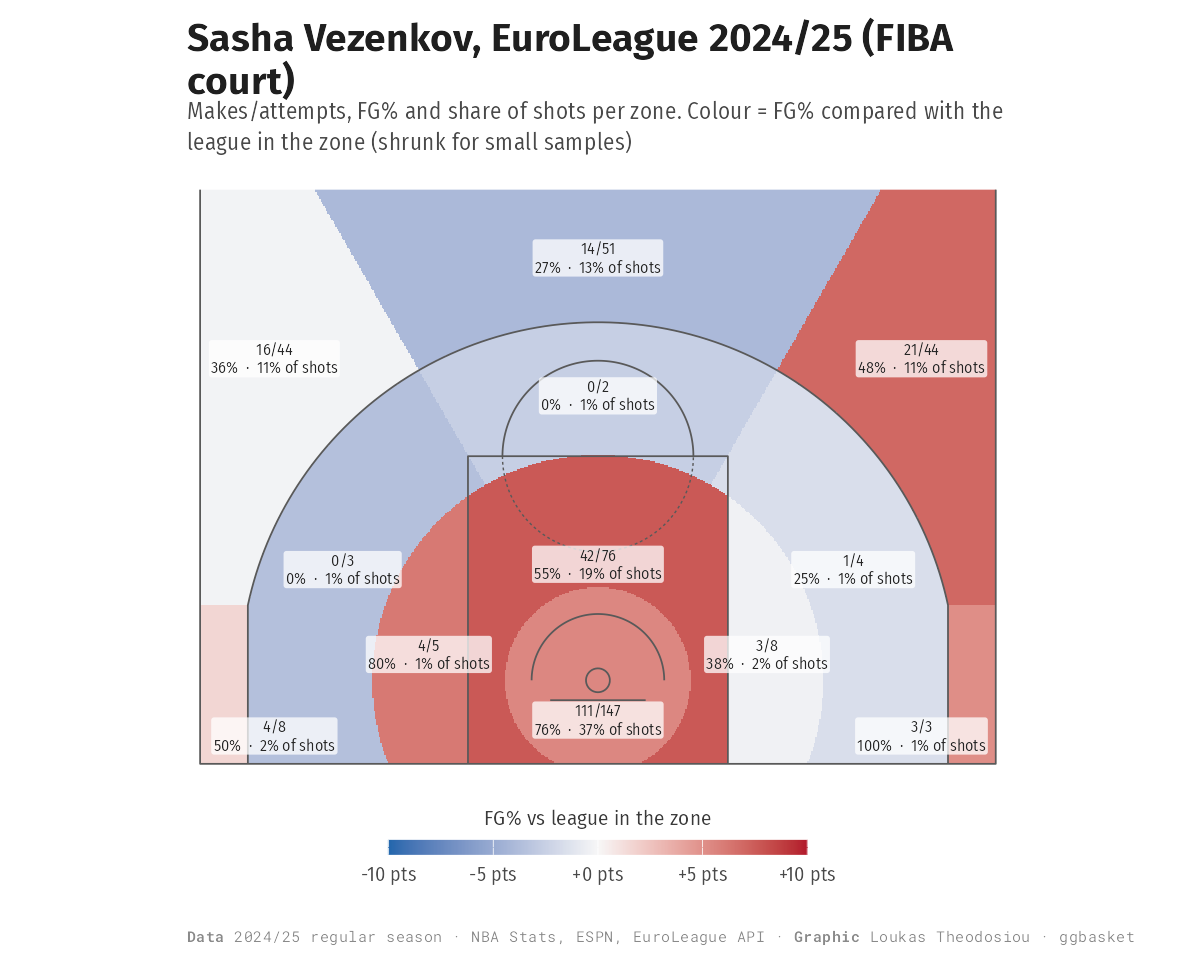
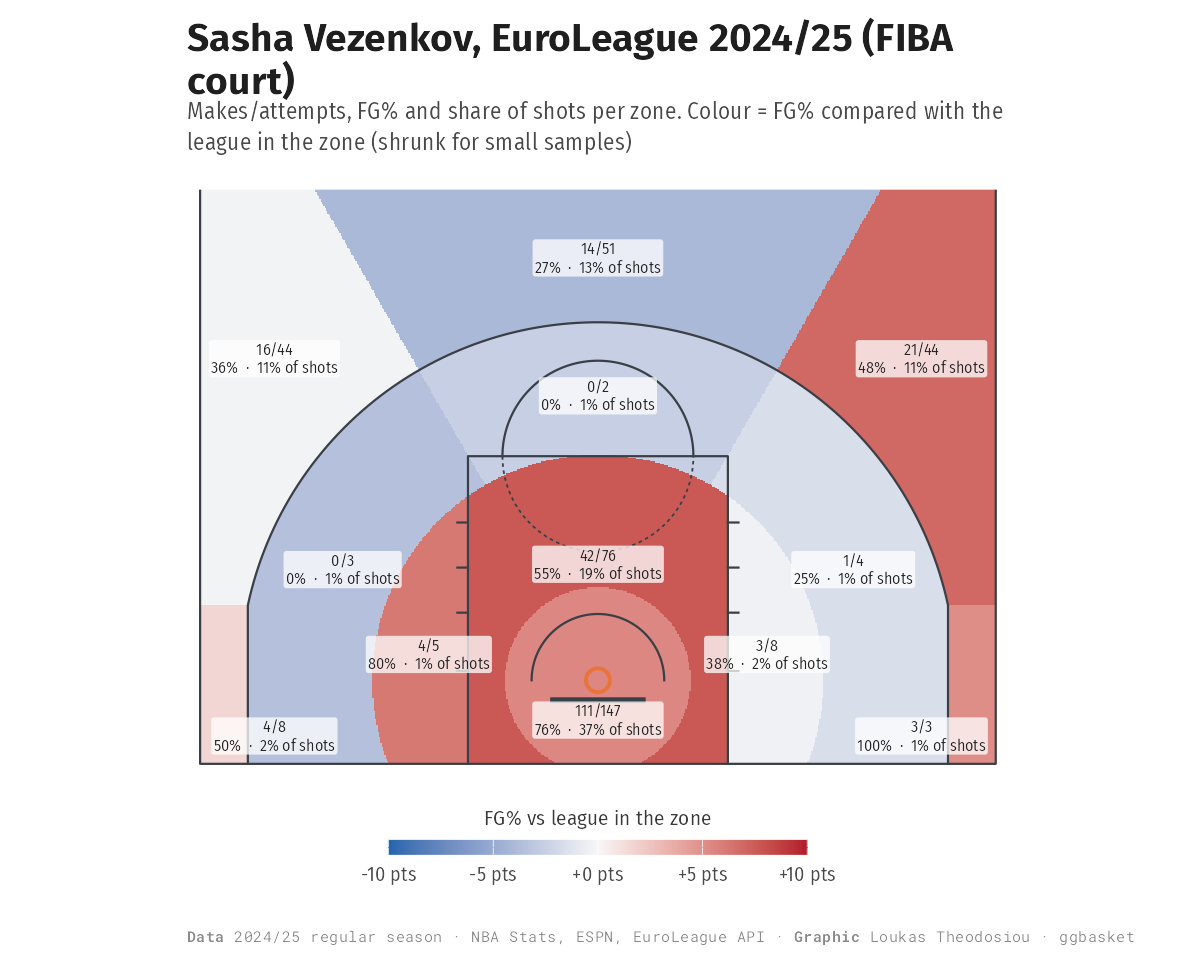
Painted court on white, four new court heatmaps, README shows every figure
- geom_court(style = painted/arena/minimal): cool-grey floor, painted key, lane marks,
  backboard and orange rim; painted is the default (no beige anywhere)
- New figures: EuroLeague hexagons, EuroLeague vs NBA shot map, Olympiacos vs
  Panathinaikos, every shot of the 2025 EuroLeague final
- README gallery now shows all 37 figures with one line each
- plot_spread(min_attempts =)

diff --git a/README.md b/README.md
@@ -29,10 +29,6 @@ on_off(el, team = "PAN")
 | Was it a classic? | `game_summary()`: lead changes, biggest leads, best run, excitement, comeback |
 | Who played well? | `box_score()`, `game_score()` |
 
-![](gallery/figures/01_game_flow.png)
-![](gallery/figures/03_win_probability.png)
-![](gallery/figures/04_game_factors.png)
-![](gallery/figures/02_game_flow_el.png)
 
 ## What you can learn from many games
 
@@ -45,11 +41,6 @@ on_off(el, team = "PAN")
 | Does pressure (shot clock, score, streaks, end of period) change shooting? | `pressure_situations()`, `pressure_effects()`, `plot_pressure()` |
 | How does a shot's value change with distance or shot clock? | `shot_curve()`, `plot_shot_curve()` |
 
-![](gallery/figures/05_on_off.png)
-![](gallery/figures/06_consistency.png)
-![](gallery/figures/10_pressure.png)
-![](gallery/figures/12_shot_clock.png)
-![](gallery/figures/09_assist_roles.png)
 
 ## Teams, players and shots
 
@@ -61,8 +52,75 @@ on_off(el, team = "PAN")
 | Patterns | `association()`, `cluster_quality()` | `plot_association()`, `plot_corr_matrix()`, `plot_similarity_map()`, `plot_cluster_quality()`, `plot_cluster_profiles()` |
 | Courts and style | `court_spec()`, `court_lines()`, `ggbasket_fonts()` | `geom_court()` (NBA and FIBA), `theme_ggbasket()`, `theme_court()`, `colour_text()`, `ggbasket_caption()` |
 
-The full gallery, 33 figures all drawn from 2024/25 data, is in [`gallery/figures/`](gallery/figures)
-(`Rscript gallery/make_gallery.R` redraws it).
+## Gallery
+
+Every figure below comes from real 2024/25 NBA and EuroLeague data; `Rscript gallery/make_gallery.R` redraws
+them all.
+
+### One game
+
+| | |
+|---|---|
+| **Game flow.** The lead through Game 7 of the 2025 NBA Finals, with scoring runs. `plot_game_flow()` | **Win probability.** The season's wildest game, with the plays that swung it. `plot_win_probability()` |
+| ![](gallery/figures/01_game_flow.png) | ![](gallery/figures/03_win_probability.png) |
+| **Why they won.** Game 7's margin split into the four factors. `plot_game_factors()` | **A EuroLeague final.** Monaco against Fenerbahce, 2025. `plot_game_flow()` |
+| ![](gallery/figures/04_game_factors.png) | ![](gallery/figures/02_game_flow_el.png) |
+| **Every shot of a game.** Shot heatmap and makes and misses for both finalists. `plot_shot_density(points = TRUE)` | |
+| ![](gallery/figures/37_game_shots.png) | |
+
+### A season of games
+
+| | |
+|---|---|
+| **On/off.** Denver with and without each player. `plot_on_off()` | **Consistency.** Every game of eight stars. `plot_consistency()` |
+| ![](gallery/figures/05_on_off.png) | ![](gallery/figures/06_consistency.png) |
+| **Assist network.** Who passes to whom in Denver. `plot_assist_network()` | **Passer to scorer.** The same network as a matrix. `plot_assist_matrix()` |
+| ![](gallery/figures/07_assist_network.png) | ![](gallery/figures/08_assist_matrix.png) |
+| **Hubs and two-man games.** `plot_assist_roles()` | **Pressure.** What changes the chance a shot goes in. `plot_pressure()` |
+| ![](gallery/figures/09_assist_roles.png) | ![](gallery/figures/10_pressure.png) |
+| **What goes with what.** Association between shot situations. `plot_association()` | **Shot clock.** Value of a shot as the clock runs down, both leagues. `plot_shot_curve()` |
+| ![](gallery/figures/11_association.png) | ![](gallery/figures/12_shot_clock.png) |
+
+### Shots on the court
+
+| | |
+|---|---|
+| **Hexagons.** Four NBA stars: where they shoot and how well. `plot_shot_hex()` | **Hexagons, EuroLeague.** Four EuroLeague scorers. `plot_shot_hex()` |
+| ![](gallery/figures/28_shot_hex.png) | ![](gallery/figures/34_hex_el.png) |
+| **Zones.** Jokic by court zone against the league. `plot_shot_zones()` | **Zones on a FIBA court.** Vezenkov. `plot_shot_zones()` |
+| ![](gallery/figures/29_shot_zones.png) | ![](gallery/figures/30_shot_zones_el.png) |
+| **Shot diet.** Curry and Giannis against the average player. `plot_shot_density()` | **League against league.** EuroLeague shot locations against the NBA's. `plot_shot_density()` |
+| ![](gallery/figures/31_density.png) | ![](gallery/figures/35_density_leagues.png) |
+| **Team against team.** Olympiacos and Panathinaikos. `plot_shot_density()` | **Distance.** Expected points by distance, both leagues. `plot_shot_curve()` |
+| ![](gallery/figures/36_density_teams.png) | ![](gallery/figures/32_curve_leagues.png) |
+| **Shot-making.** Who beats the expected FG% of their shots. `plot_shot_making()` | |
+| ![](gallery/figures/33_shot_making.png) | |
+
+### Teams
+
+| | |
+|---|---|
+| **Ratings map.** Offence against defence, both leagues. `plot_ratings()` | **Four factors.** The 2025 EuroLeague Final Four. `plot_four_factors()` |
+| ![](gallery/figures/13_ratings.png) | ![](gallery/figures/14_four_factors.png) |
+| **Luck.** Actual against Pythagorean wins. `plot_luck()` | **Scoring concentration.** Lorenz curves per team. `plot_lorenz()` |
+| ![](gallery/figures/15_luck.png) | ![](gallery/figures/16_lorenz.png) |
+
+### Players
+
+| | |
+|---|---|
+| **Fingerprints.** Percentiles on nine stats. `plot_profile()` | **The same fingerprints as radars.** `plot_profile(style = "radar")` |
+| ![](gallery/figures/17_profile.png) | ![](gallery/figures/18_profile_radar.png) |
+| **Quadrants.** Assists against turnovers. `plot_quadrant()` | **Joint density.** Usage against efficiency. `plot_joint()` |
+| ![](gallery/figures/19_quadrant.png) | ![](gallery/figures/20_joint.png) |
+| **Above or below the line.** Turnovers for the assist load. `plot_fit()` | **Spread within a team.** OKC's shooting. `plot_spread()` |
+| ![](gallery/figures/21_fit.png) | ![](gallery/figures/22_spread.png) |
+| **Ranked bars.** OKC's shot diet by plus-minus. `plot_ranked()` | **Correlations.** What goes together in a stat line. `plot_corr_matrix()` |
+| ![](gallery/figures/23_ranked.png) | ![](gallery/figures/24_corr.png) |
+| **Similarity map.** The NBA in two dimensions. `plot_similarity_map()` | **How many player types?** `plot_cluster_quality()` |
+| ![](gallery/figures/25_map.png) | ![](gallery/figures/26_cluster_quality.png) |
+| **Seven kinds of player.** `plot_cluster_profiles()` | |
+| ![](gallery/figures/27_cluster_profiles.png) | |
 
 ## Data
 
@@ -98,7 +156,7 @@ On the 2024/25 seasons:
 
 `theme_ggbasket()` follows Cedric Scherer's editorial look:
 
-* a plain white background;
+* a plain white background, and a "painted" court (cool-grey floor, blue-grey key, orange rim; `geom_court(style = )` also offers `"arena"` and `"minimal"`);
 * a bold title that states the finding;
 * a markdown subtitle that names groups in their own colour (`colour_text()`) instead of a legend;
 * a monospaced "Data · Graphic" caption.
